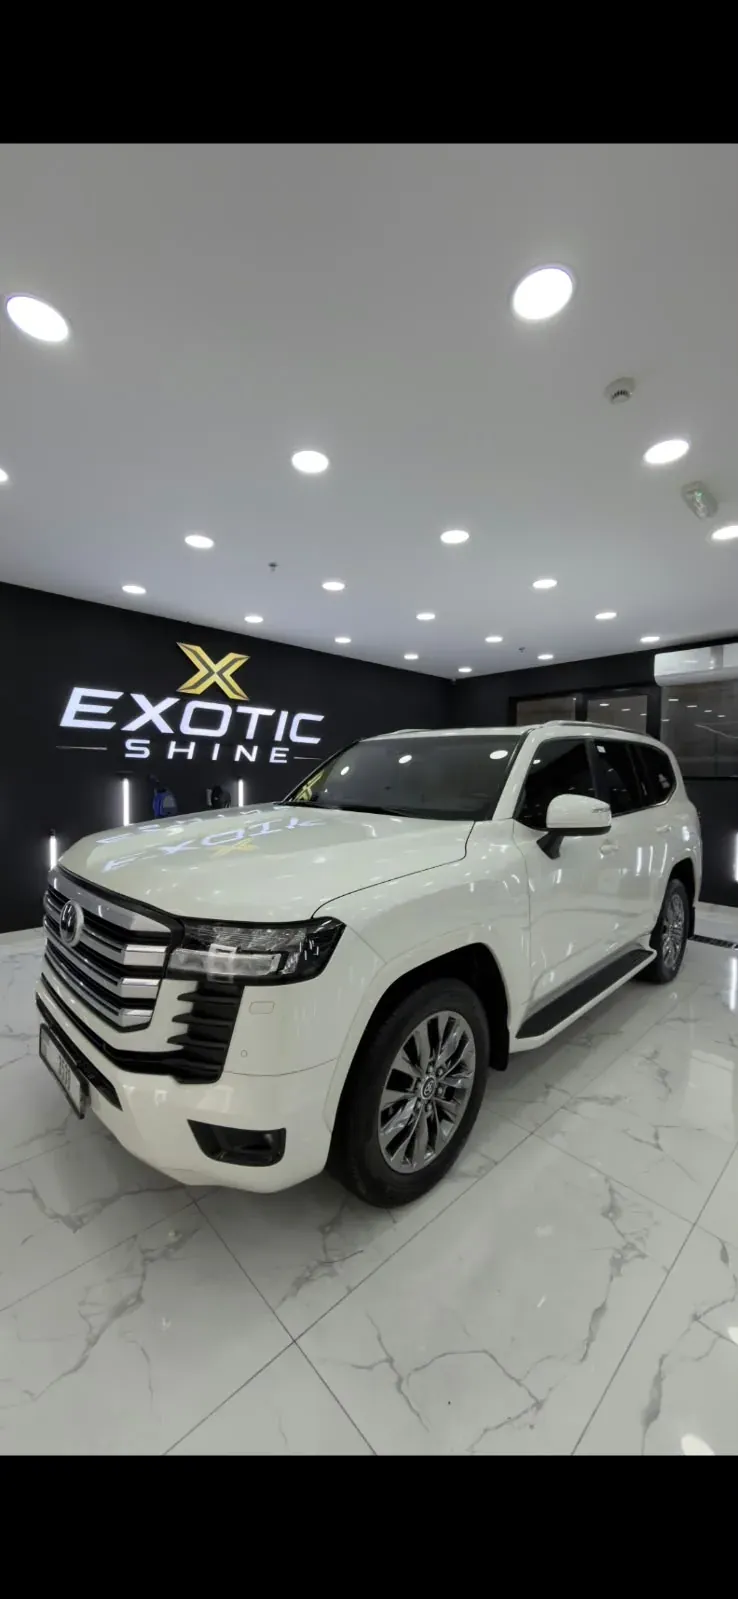
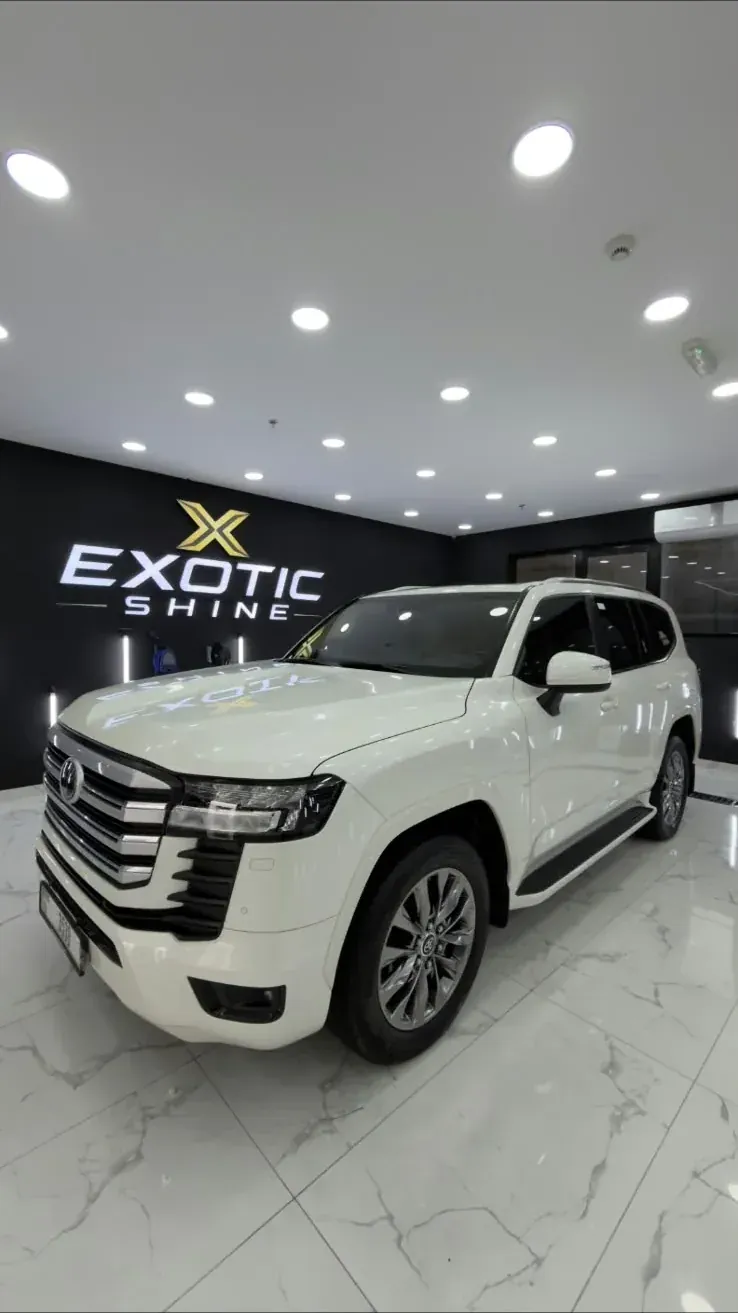
Pick the homepage studio strip against its own copy
The section argues "marble floor, controlled lighting, dust-sealed bays", and
one of its three photos was the retail counter — nothing to do with leaving a
car anywhere. The other was a soft frame lifted from video.

It now shows a car actually standing in the space, the lit hall, and a
prepared bay: the promise, the lighting, the floor.

The three are declared as their own list rather than the first three of the
about-page gallery, so reordering that tour can't quietly change what the
homepage argues.

Also trims the letterbox bars off the Land Cruiser shot — another video frame,
and the black bands were showing as stripes inside its gallery tile.

diff --git a/src/lib/content/studio.ts b/src/lib/content/studio.ts
@@ -38,10 +38,44 @@ export const entranceShot: StudioShot = {
 };
 
 /**
- * Ordered strongest first — the homepage shows only the first three, so the
- * lead shots have to carry the point on their own: a car being worked on, the
- * floor it's standing on, and the counter you walk up to.
+ * The three on the homepage, under "Where you'll be leaving your car".
+ *
+ * Chosen against that copy rather than by gallery order: a car actually
+ * standing in the space, the lit hall, and the marble floor. The retail
+ * counter used to sit here and had nothing to do with leaving a car
+ * anywhere.
+ *
+ * Kept separate from `studioGallery` so reordering the about-page tour can't
+ * quietly change what the homepage argues.
  */
+export const studioStrip: StudioShot[] = [
+  {
+    src: "/studio/bay-mercedes-front.webp",
+    portrait: true,
+    alt: {
+      en: "A Mercedes CLA on the marble floor in front of the Exotic Shine wall",
+      ar: "مرسيدس CLA على الأرضية الرخامية أمام جدار إكزوتك شاين",
+    },
+  },
+  {
+    src: "/studio/bay-lit.webp",
+    portrait: true,
+    alt: {
+      en: "The lit hall under the mezzanine, with the Exotic Shine sign",
+      ar: "الصالة المضاءة تحت الميزانين، مع لوحة إكزوتك شاين",
+    },
+  },
+  {
+    src: "/studio/bay-empty.webp",
+    portrait: true,
+    alt: {
+      en: "A prepared bay, marble floor reflecting the ceiling lights",
+      ar: "منطقة عمل مجهزة، والأرضية الرخامية تعكس أضواء السقف",
+    },
+  },
+];
+
+/** The fuller tour on the about page. */
 export const studioGallery: StudioShot[] = [
   {
     src: "/studio/polishing.webp",

diff --git a/src/app/[lang]/page.tsx b/src/app/[lang]/page.tsx
@@ -14,7 +14,7 @@ import {
 } from "@/lib/content/business";
 import { generalFaqs } from "@/lib/content/faqs";
 import { featuredWork, imageFor } from "@/lib/content/media";
-import { studioGallery, studioHero } from "@/lib/content/studio";
+import { studioHero, studioStrip } from "@/lib/content/studio";
 import { getService, pillars, servicesInPillar } from "@/lib/content/services";
 import { ui } from "@/lib/content/ui";
 import { href, isLocale, t } from "@/lib/i18n";
@@ -260,7 +260,7 @@ export default async function HomePage({ params }: PageProps<"/[lang]">) {
         />
 
         <ul className="mt-10 grid gap-4 sm:grid-cols-3">
-          {studioGallery.slice(0, 3).map((shot) => (
+          {studioStrip.map((shot) => (
             <li
               key={shot.src}
               className="relative aspect-3/4 overflow-hidden rounded-lg border border-line-soft"

diff --git a/scripts/trim-letterbox.py b/scripts/trim-letterbox.py
@@ -1,0 +1,26 @@
+"""Strip letterbox bars from photos that came in as video frames.
+
+A couple of the client's shots are screenshots from portrait video, so they
+arrive with black bands top and bottom. Left alone they show as black stripes
+inside the gallery tiles.
+"""
+
+from pathlib import Path
+import numpy as np
+from PIL import Image
+
+TARGETS = ["bay-landcruiser"]
+OUT = Path("public/studio")
+
+for slug in TARGETS:
+    path = OUT / f"{slug}.webp"
+    img = Image.open(path).convert("RGB")
+    rows = np.where(np.asarray(img.convert("L")).max(axis=1) > 25)[0]
+
+    if rows[0] == 0 and rows[-1] == img.height - 1:
+        print(f"{slug}: no bars")
+        continue
+
+    trimmed = img.crop((0, int(rows[0]), img.width, int(rows[-1]) + 1))
+    trimmed.save(path, "WEBP", quality=84, method=6)
+    print(f"{slug}: {img.height}px -> {trimmed.height}px")
